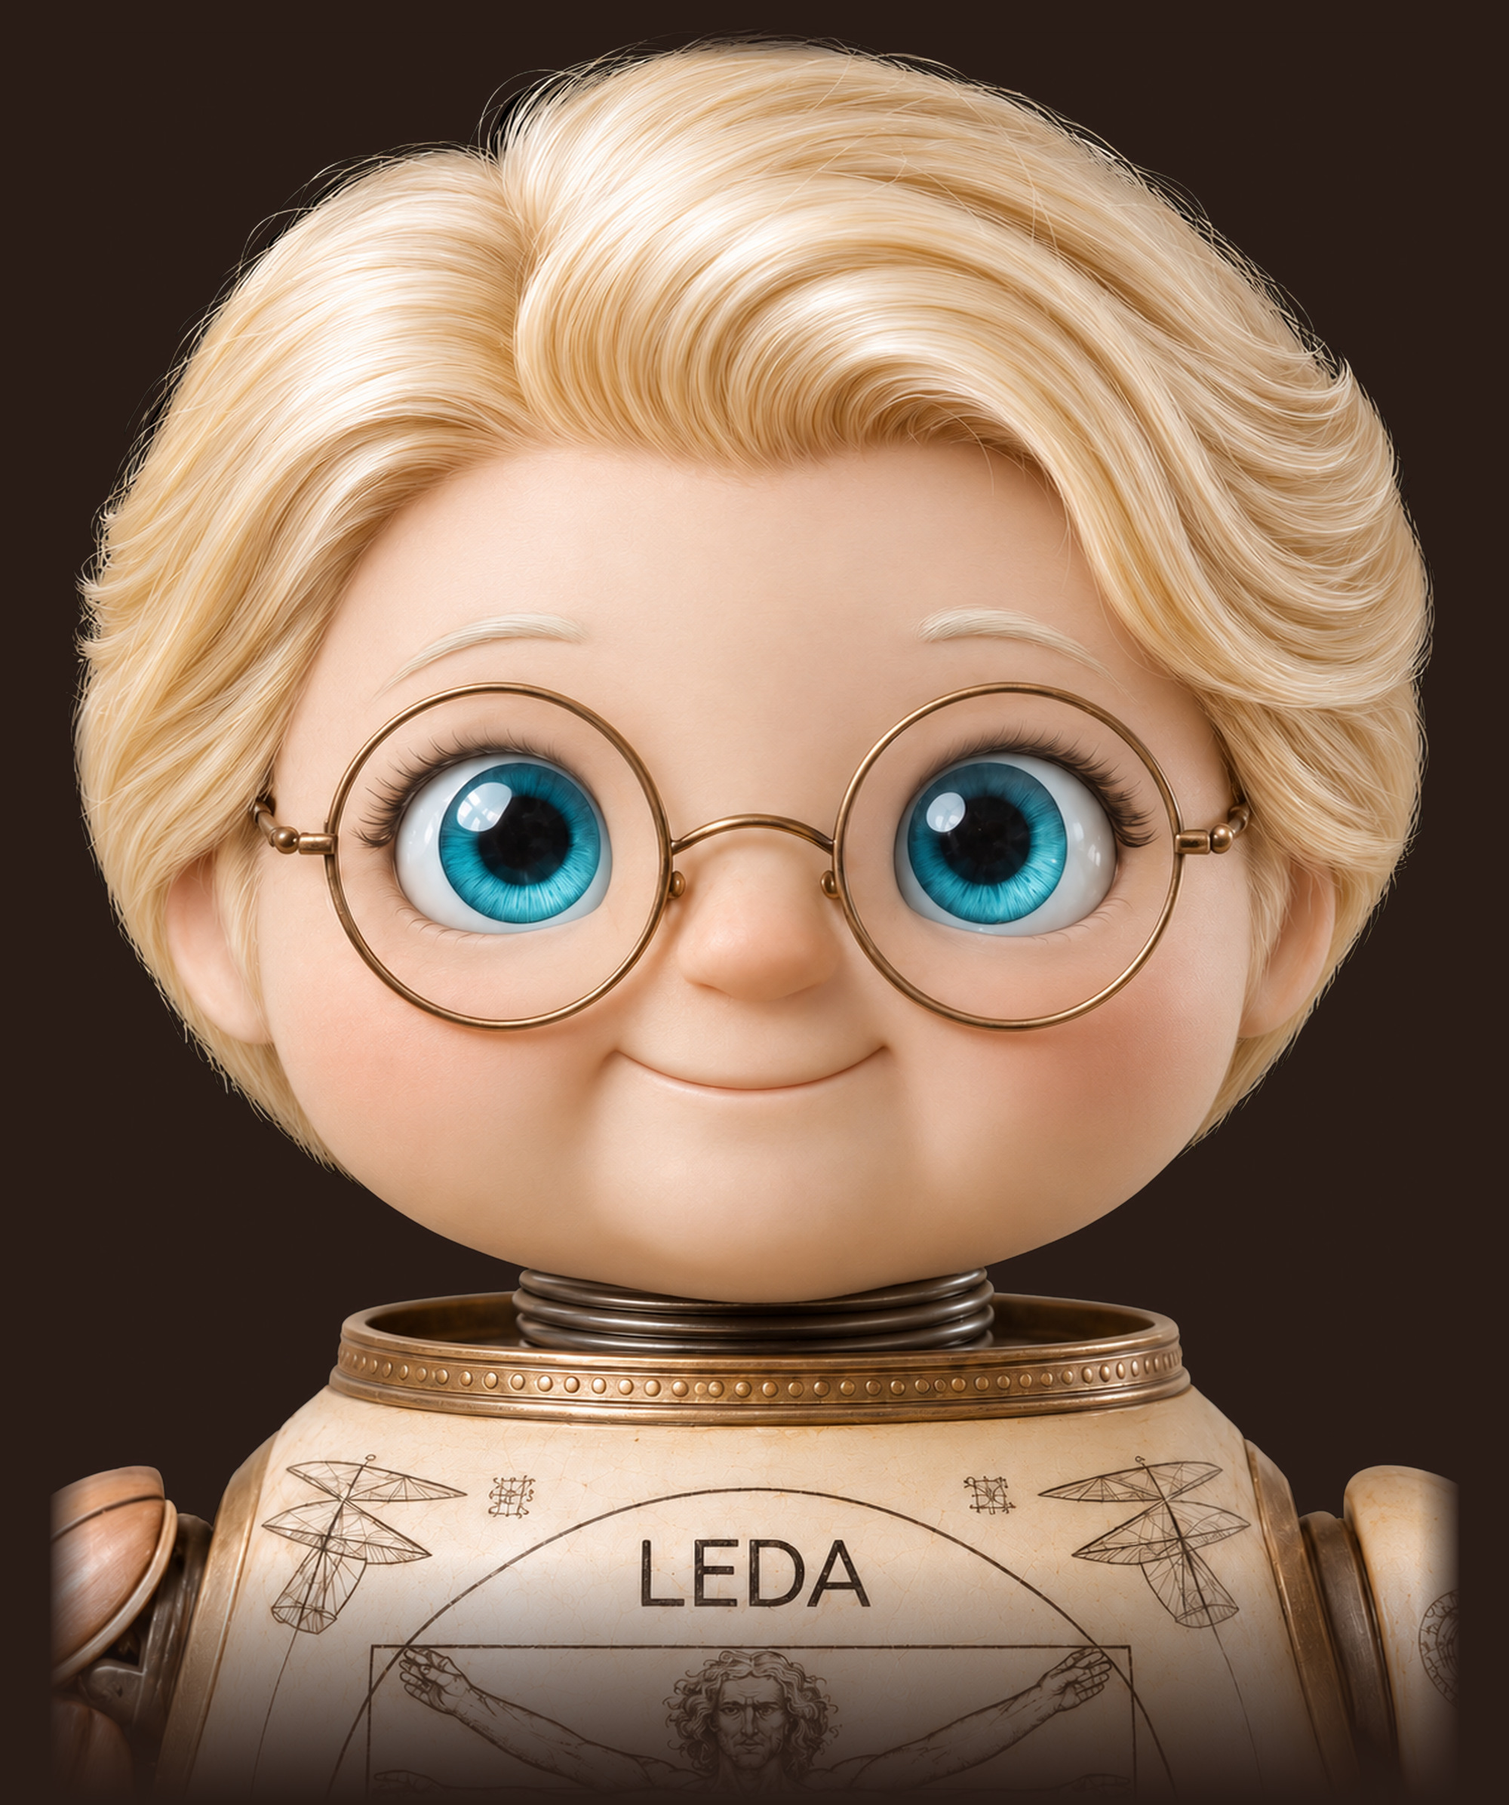
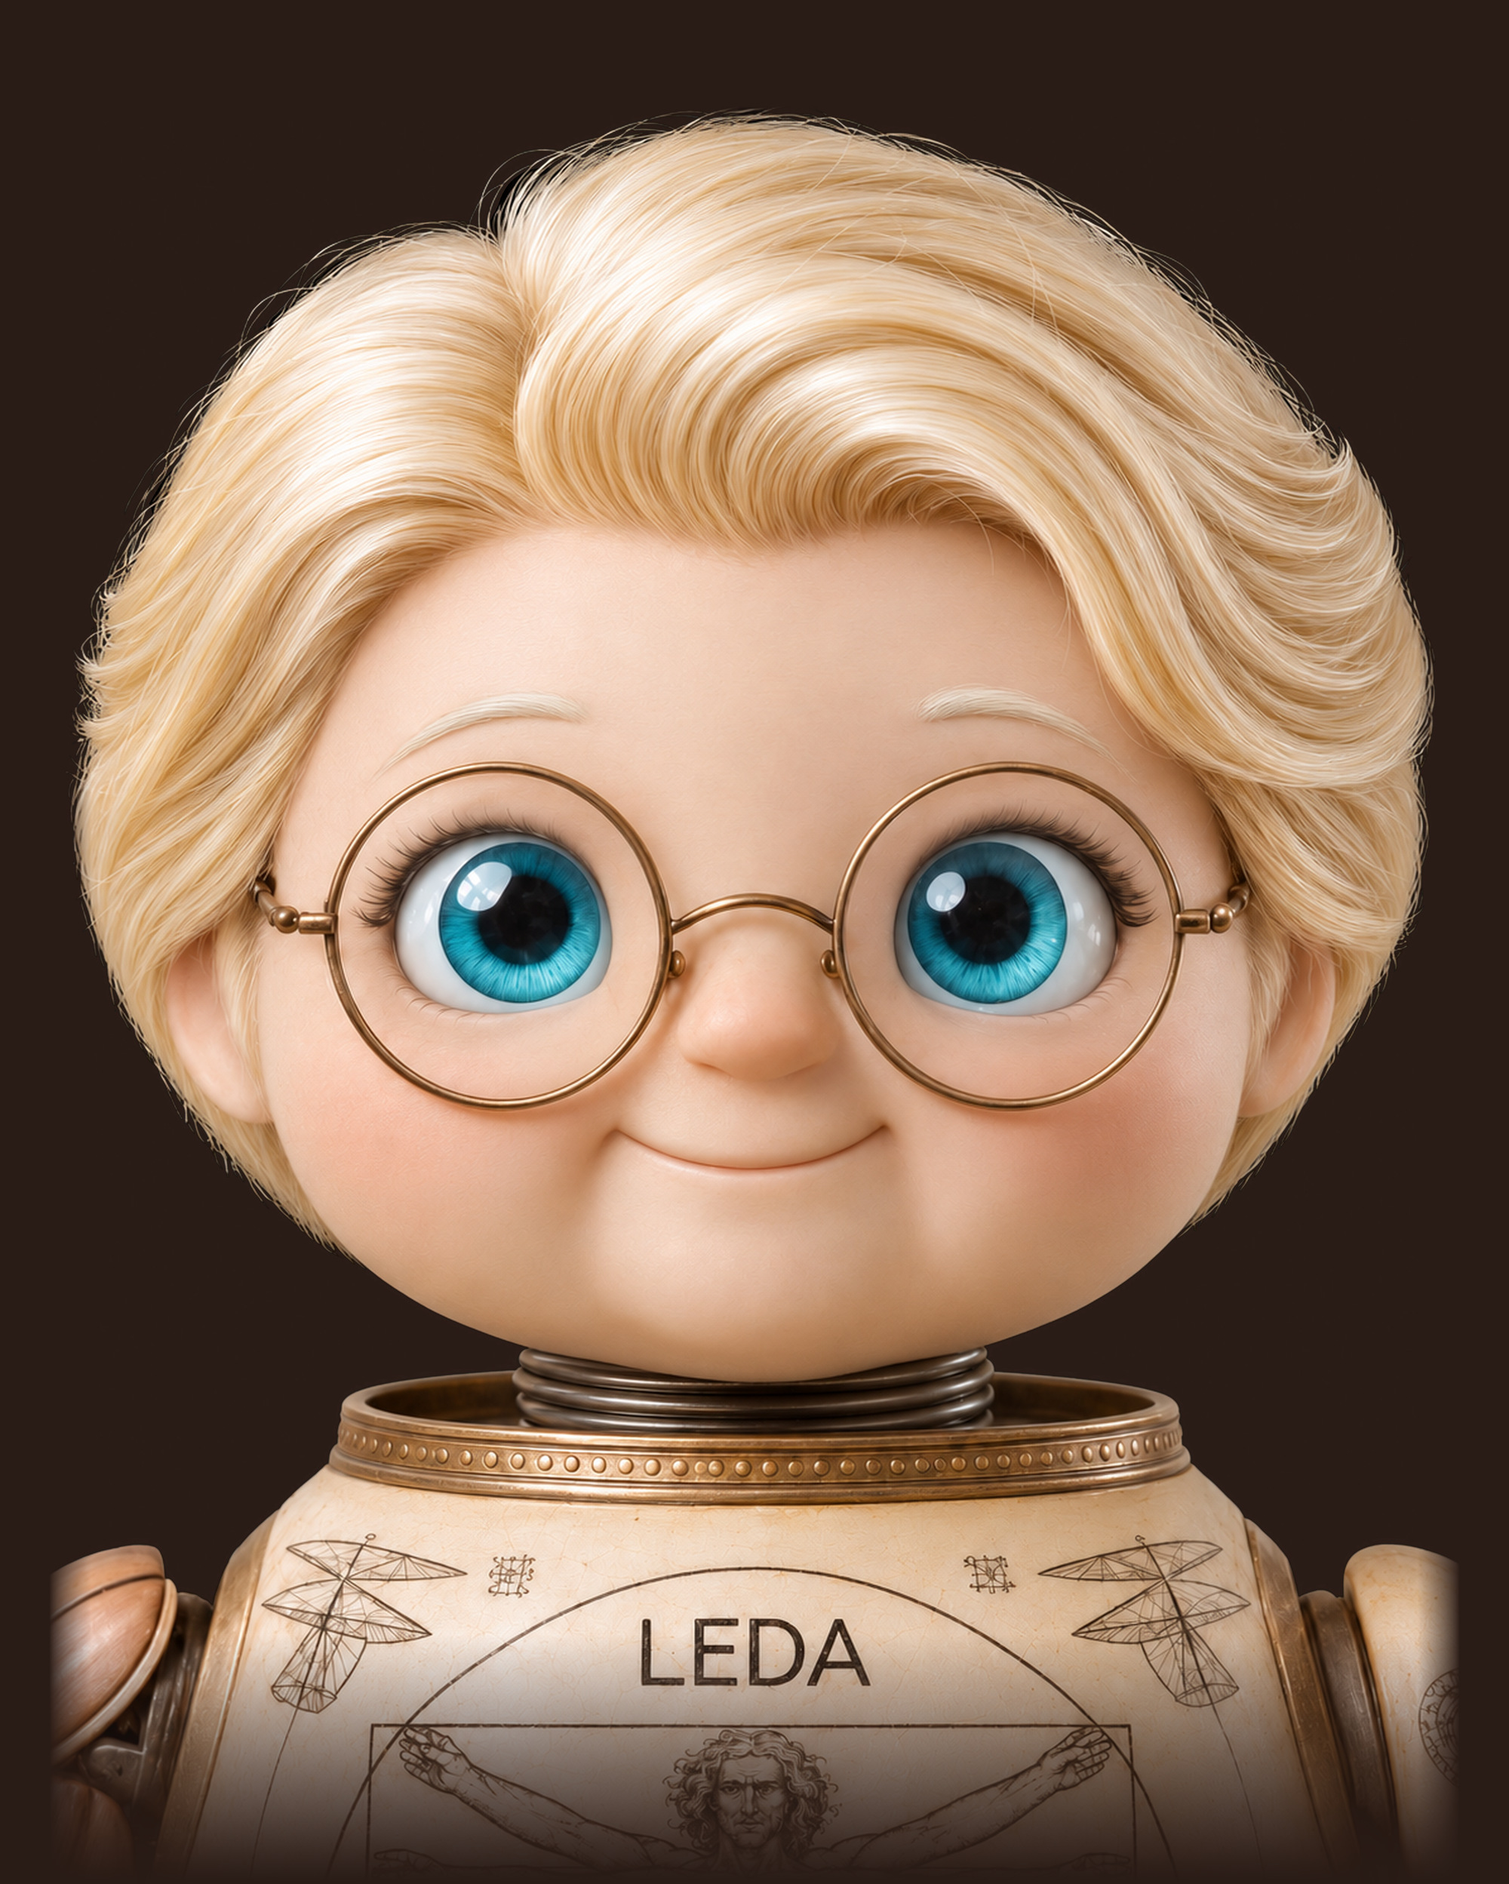
Leda: cabelo inteiro no topo, microfone fixo em todas as abas, Receitas e Salas ajustadas; Felyx: microfone em todas as abas

diff --git a/app-leda/full.html b/app-leda/full.html
@@ -450,7 +450,7 @@ input,select,textarea{font-size:16px!important}
   addEventListener('DOMContentLoaded', folgas); addEventListener('resize', folgas); addEventListener('orientationchange', ()=>setTimeout(folgas, 250));
 })();
 </script>
-<style id="semIris">#unlock{display:none!important}#hud>.mic{overflow:visible}#hud[data-tab="home"]>.mic[data-on="0"]::after{content:attr(data-rotulo);position:absolute;left:50%;top:calc(100% + 8px);transform:translateX(-50%);color:#e1fe06;font:700 1.02rem/1.1 "Barlow Semi Condensed","Barlow",system-ui,sans-serif;letter-spacing:.04em;white-space:nowrap;pointer-events:none;text-shadow:0 0 6px rgba(225,254,6,.75),0 0 18px rgba(225,254,6,.45),0 1px 2px #000}@media (orientation:landscape){#hud[data-tab="home"]>.mic[data-on="0"]::after{left:auto;right:-4px;transform:none;text-align:right}}@media (orientation:portrait){#hud[data-tab="home"]>.mic{bottom:calc(var(--tabsH,64px) + 36px)!important}}</style>
+<style id="semIris">#unlock{display:none!important}#hud>.mic{overflow:visible}#hud[data-tab="home"]>.mic[data-on="0"]::after{content:attr(data-rotulo);position:absolute;left:50%;top:calc(100% + 8px);transform:translateX(-50%);color:#e1fe06;font:700 1.02rem/1.1 "Barlow Semi Condensed","Barlow",system-ui,sans-serif;letter-spacing:.04em;white-space:nowrap;pointer-events:none;text-shadow:0 0 6px rgba(225,254,6,.75),0 0 18px rgba(225,254,6,.45),0 1px 2px #000}@media (orientation:landscape){#hud[data-tab="home"]>.mic[data-on="0"]::after{left:auto;right:-4px;transform:none;text-align:right}}@media (orientation:portrait){html body #hud>.mic{bottom:calc(var(--tabsH,64px) + 36px)!important}}html body #hud[data-tab]>.mic{display:grid!important}</style>
 <style id="ledaVisual">
 /* Leda (12/11/2026, revisão 3): arte oficial em fundo marrom; barra, microfone e frase em cobre metálico (como o anel do pescoço); aba Receitas; sem cotações */
 :root{--leda:#c98a4b;--ledaRGB:201,138,75;--cobre:linear-gradient(135deg,#f6d2a4 0%,#d39a5f 28%,#a8692f 52%,#e2b07a 74%,#8c5527 100%);--fundo:#291b16;--ink950:#291b16;--ink900:#34231c;--ink800:#3d2a22;--ink700:#4a3328;--linha:#563c2f;--mist:#bfa38b;--texto:#f3e8dc;--accent:#c98a4b;--accent-rgb:201,138,75}
@@ -463,7 +463,7 @@ html body #hud[data-tab] .face img.retrato,html body #hud.com-rosto[data-tab] .f
 /* ABA LEDA: busto grande no preto, rosto bem definido */
 html body #hud[data-tab="home"] .face{position:fixed!important;left:0!important;right:0!important;top:0!important;bottom:0!important;width:auto!important;height:auto!important;aspect-ratio:auto!important;border-radius:0!important;box-shadow:none!important;transform:none!important;background:var(--fundo)!important;z-index:0!important}
 /* em pé: a Leda ocupa a largura toda (cabelo inteiro, sem corte), começa logo abaixo da área segura e o corpo desce por trás do microfone e das abas */
-html body #hud[data-tab="home"] .face .ledaBusto{display:block!important;position:absolute!important;left:0!important;right:auto!important;top:max(env(safe-area-inset-top,0px),calc(100dvh - var(--tabsH,64px) - 132px - 100vw * 1.1958))!important;bottom:auto!important;
+html body #hud[data-tab="home"] .face .ledaBusto{display:block!important;position:absolute!important;left:0!important;right:auto!important;top:max(env(safe-area-inset-top,0px),calc(100dvh - var(--tabsH,64px) - 132px - 100vw * 1.2487))!important;bottom:auto!important;
   width:100vw!important;height:auto!important;max-width:none!important;max-height:none!important;transform:none;transform-origin:50% 30%;
   animation:ledaRespira 5.5s ease-in-out infinite}
 html body #hud[data-tab="home"][data-state="speaking"] .face .ledaBusto{animation:ledaFala .9s ease-in-out infinite}
@@ -495,8 +495,8 @@ html body #hud:not([data-tab="home"])[data-state="speaking"] .orbWrap{animation:
 /* ABA RECEITAS */
 #receitas{display:none}
 #hud[data-tab="receitas"]>.top,#hud[data-tab="receitas"]>.stage,#hud[data-tab="receitas"]>.bottom,#hud[data-tab="receitas"]>.moreView{display:none!important}
-#hud[data-tab="receitas"] #receitas{display:block;position:fixed;left:0;right:0;top:0;bottom:calc(var(--tabsH,64px) + var(--micZ,0px));overflow:auto;-webkit-overflow-scrolling:touch;
-  background:var(--ink950);color:var(--texto);padding:calc(max(env(safe-area-inset-top),12px) + 10px) 14px 24px;z-index:3}
+#hud[data-tab="receitas"] #receitas{display:block;position:fixed;left:0;right:0;top:0;bottom:var(--tabsH,64px);overflow:auto;-webkit-overflow-scrolling:touch;
+  background:var(--ink950);color:var(--texto);padding:calc(max(env(safe-area-inset-top),12px) + 10px) 14px calc(var(--micZ,86px) + 64px);z-index:3}
 #receitas .rcTopo{max-width:760px;margin:0 auto 14px}
 #receitas .rcK{font-family:"IBM Plex Mono",var(--mono,monospace);font-size:.66rem;letter-spacing:.2em;color:var(--mist);text-transform:uppercase}
 #receitas .rcK i{display:inline-block;width:6px;height:6px;border-radius:50%;background:var(--leda);margin-right:8px;vertical-align:middle}
@@ -536,6 +536,10 @@ html body #hud:not([data-tab="home"]) .orbWrap{aspect-ratio:1/1!important;height
 html body #hud[data-tab="home"] .appTabs{background:linear-gradient(180deg,rgba(41,27,22,.55),rgba(41,27,22,.92))!important;-webkit-backdrop-filter:blur(6px);backdrop-filter:blur(6px);position:relative;z-index:5}
 html body #hud[data-tab="home"]::before{content:"";position:fixed;left:0;right:0;bottom:0;height:calc(var(--tabsH,64px) + 150px);background:linear-gradient(180deg,rgba(41,27,22,0),rgba(41,27,22,.75) 55%,rgba(41,27,22,.95));z-index:1;pointer-events:none}
 html body #hud[data-tab="home"]>.mic{z-index:6}
+
+/* Salas: espaço para o microfone (que agora aparece em todas as abas) */
+html body #hud[data-tab="rooms"]{padding-bottom:calc(var(--tabsH,64px) + 120px)!important}
+html body #hud[data-tab="rooms"] .stage{padding-bottom:110px}
 
 </style>
 <script>
@@ -771,7 +775,7 @@ document.addEventListener('DOMContentLoaded', ()=>{
     <section class="center">
       <section class="orbWrap" aria-label="Leda">
         <canvas id="rings" aria-hidden="true"></canvas>
-        <div class="face"><img class="ledaBusto" src="leda-busto.jpg?v=20261112f" decoding="sync" alt="Leda" draggable="false"><img class="ledaRosto" src="leda-rosto.jpg?v=20261112f" alt="" draggable="false">
+        <div class="face"><img class="ledaBusto" src="leda-busto.jpg?v=20261112g" decoding="sync" alt="Leda" draggable="false"><img class="ledaRosto" src="leda-rosto.jpg?v=20261112g" alt="" draggable="false">
           <img class="retrato" src="leda-rosto.jpg" alt="" aria-hidden="true"><canvas id="cv" width="1000" height="1000" aria-hidden="true"></canvas>
           <video id="avatarVideo" autoplay playsinline muted aria-hidden="true"></video>
           <audio id="avatarAudio" autoplay></audio>

diff --git a/app-leda/gem.html b/app-leda/gem.html
@@ -347,7 +347,7 @@ body::after{content:"";position:fixed;inset:0;pointer-events:none;background:rad
   .hud[data-tab="dashboard"] .news{min-height:200px}
 }
 </style>
-<style id="semIris">#unlock{display:none!important}#hud>.mic{overflow:visible}#hud[data-tab="home"]>.mic[data-on="0"]::after{content:attr(data-rotulo);position:absolute;left:50%;top:calc(100% + 8px);transform:translateX(-50%);color:#e1fe06;font:700 1.02rem/1.1 "Barlow Semi Condensed","Barlow",system-ui,sans-serif;letter-spacing:.04em;white-space:nowrap;pointer-events:none;text-shadow:0 0 6px rgba(225,254,6,.75),0 0 18px rgba(225,254,6,.45),0 1px 2px #000}@media (orientation:landscape){#hud[data-tab="home"]>.mic[data-on="0"]::after{left:auto;right:-4px;transform:none;text-align:right}}@media (orientation:portrait){#hud[data-tab="home"]>.mic{bottom:calc(var(--tabsH,64px) + 36px)!important}}</style>
+<style id="semIris">#unlock{display:none!important}#hud>.mic{overflow:visible}#hud[data-tab="home"]>.mic[data-on="0"]::after{content:attr(data-rotulo);position:absolute;left:50%;top:calc(100% + 8px);transform:translateX(-50%);color:#e1fe06;font:700 1.02rem/1.1 "Barlow Semi Condensed","Barlow",system-ui,sans-serif;letter-spacing:.04em;white-space:nowrap;pointer-events:none;text-shadow:0 0 6px rgba(225,254,6,.75),0 0 18px rgba(225,254,6,.45),0 1px 2px #000}@media (orientation:landscape){#hud[data-tab="home"]>.mic[data-on="0"]::after{left:auto;right:-4px;transform:none;text-align:right}}@media (orientation:portrait){html body #hud>.mic{bottom:calc(var(--tabsH,64px) + 36px)!important}}html body #hud[data-tab]>.mic{display:grid!important}</style>
 <style id="ledaVisual">
 /* Leda (12/11/2026, revisão 3): arte oficial em fundo marrom; barra, microfone e frase em cobre metálico (como o anel do pescoço); aba Receitas; sem cotações */
 :root{--leda:#c98a4b;--ledaRGB:201,138,75;--cobre:linear-gradient(135deg,#f6d2a4 0%,#d39a5f 28%,#a8692f 52%,#e2b07a 74%,#8c5527 100%);--fundo:#291b16;--ink950:#291b16;--ink900:#34231c;--ink800:#3d2a22;--ink700:#4a3328;--linha:#563c2f;--mist:#bfa38b;--texto:#f3e8dc;--accent:#c98a4b;--accent-rgb:201,138,75}
@@ -360,7 +360,7 @@ html body #hud[data-tab] .face img.retrato,html body #hud.com-rosto[data-tab] .f
 /* ABA LEDA: busto grande no preto, rosto bem definido */
 html body #hud[data-tab="home"] .face{position:fixed!important;left:0!important;right:0!important;top:0!important;bottom:0!important;width:auto!important;height:auto!important;aspect-ratio:auto!important;border-radius:0!important;box-shadow:none!important;transform:none!important;background:var(--fundo)!important;z-index:0!important}
 /* em pé: a Leda ocupa a largura toda (cabelo inteiro, sem corte), começa logo abaixo da área segura e o corpo desce por trás do microfone e das abas */
-html body #hud[data-tab="home"] .face .ledaBusto{display:block!important;position:absolute!important;left:0!important;right:auto!important;top:max(env(safe-area-inset-top,0px),calc(100dvh - var(--tabsH,64px) - 132px - 100vw * 1.1958))!important;bottom:auto!important;
+html body #hud[data-tab="home"] .face .ledaBusto{display:block!important;position:absolute!important;left:0!important;right:auto!important;top:max(env(safe-area-inset-top,0px),calc(100dvh - var(--tabsH,64px) - 132px - 100vw * 1.2487))!important;bottom:auto!important;
   width:100vw!important;height:auto!important;max-width:none!important;max-height:none!important;transform:none;transform-origin:50% 30%;
   animation:ledaRespira 5.5s ease-in-out infinite}
 html body #hud[data-tab="home"][data-state="speaking"] .face .ledaBusto{animation:ledaFala .9s ease-in-out infinite}
@@ -392,8 +392,8 @@ html body #hud:not([data-tab="home"])[data-state="speaking"] .orbWrap{animation:
 /* ABA RECEITAS */
 #receitas{display:none}
 #hud[data-tab="receitas"]>.top,#hud[data-tab="receitas"]>.stage,#hud[data-tab="receitas"]>.bottom,#hud[data-tab="receitas"]>.moreView{display:none!important}
-#hud[data-tab="receitas"] #receitas{display:block;position:fixed;left:0;right:0;top:0;bottom:calc(var(--tabsH,64px) + var(--micZ,0px));overflow:auto;-webkit-overflow-scrolling:touch;
-  background:var(--ink950);color:var(--texto);padding:calc(max(env(safe-area-inset-top),12px) + 10px) 14px 24px;z-index:3}
+#hud[data-tab="receitas"] #receitas{display:block;position:fixed;left:0;right:0;top:0;bottom:var(--tabsH,64px);overflow:auto;-webkit-overflow-scrolling:touch;
+  background:var(--ink950);color:var(--texto);padding:calc(max(env(safe-area-inset-top),12px) + 10px) 14px calc(var(--micZ,86px) + 64px);z-index:3}
 #receitas .rcTopo{max-width:760px;margin:0 auto 14px}
 #receitas .rcK{font-family:"IBM Plex Mono",var(--mono,monospace);font-size:.66rem;letter-spacing:.2em;color:var(--mist);text-transform:uppercase}
 #receitas .rcK i{display:inline-block;width:6px;height:6px;border-radius:50%;background:var(--leda);margin-right:8px;vertical-align:middle}
@@ -433,6 +433,10 @@ html body #hud:not([data-tab="home"]) .orbWrap{aspect-ratio:1/1!important;height
 html body #hud[data-tab="home"] .appTabs{background:linear-gradient(180deg,rgba(41,27,22,.55),rgba(41,27,22,.92))!important;-webkit-backdrop-filter:blur(6px);backdrop-filter:blur(6px);position:relative;z-index:5}
 html body #hud[data-tab="home"]::before{content:"";position:fixed;left:0;right:0;bottom:0;height:calc(var(--tabsH,64px) + 150px);background:linear-gradient(180deg,rgba(41,27,22,0),rgba(41,27,22,.75) 55%,rgba(41,27,22,.95));z-index:1;pointer-events:none}
 html body #hud[data-tab="home"]>.mic{z-index:6}
+
+/* Salas: espaço para o microfone (que agora aparece em todas as abas) */
+html body #hud[data-tab="rooms"]{padding-bottom:calc(var(--tabsH,64px) + 120px)!important}
+html body #hud[data-tab="rooms"] .stage{padding-bottom:110px}
 
 </style>
 <script>
@@ -657,7 +661,7 @@ document.addEventListener('DOMContentLoaded', ()=>{
     <section class="center">
       <section class="orbWrap" aria-label="Leda">
         <canvas id="rings" aria-hidden="true"></canvas>
-        <div class="face"><img class="ledaBusto" src="leda-busto.jpg?v=20261112f" decoding="sync" alt="Leda" draggable="false"><img class="ledaRosto" src="leda-rosto.jpg?v=20261112f" alt="" draggable="false">
+        <div class="face"><img class="ledaBusto" src="leda-busto.jpg?v=20261112g" decoding="sync" alt="Leda" draggable="false"><img class="ledaRosto" src="leda-rosto.jpg?v=20261112g" alt="" draggable="false">
           <canvas id="cv" width="1000" height="1000" aria-hidden="true"></canvas>
           <video id="avatarVideo" autoplay playsinline muted aria-hidden="true"></video>
           <audio id="avatarAudio" autoplay></audio>

diff --git a/app/full.html b/app/full.html
@@ -450,7 +450,7 @@ input,select,textarea{font-size:16px!important}
   addEventListener('DOMContentLoaded', folgas); addEventListener('resize', folgas); addEventListener('orientationchange', ()=>setTimeout(folgas, 250));
 })();
 </script>
-<style id="semIris">#unlock{display:none!important}#hud>.mic{overflow:visible}#hud[data-tab="home"]>.mic[data-on="0"]::after{content:attr(data-rotulo);position:absolute;left:50%;top:calc(100% + 8px);transform:translateX(-50%);color:#e1fe06;font:700 1.02rem/1.1 "Barlow Semi Condensed","Barlow",system-ui,sans-serif;letter-spacing:.04em;white-space:nowrap;pointer-events:none;text-shadow:0 0 6px rgba(225,254,6,.75),0 0 18px rgba(225,254,6,.45),0 1px 2px #000}@media (orientation:landscape){#hud[data-tab="home"]>.mic[data-on="0"]::after{left:auto;right:-4px;transform:none;text-align:right}}@media (orientation:portrait){#hud[data-tab="home"]>.mic{bottom:calc(var(--tabsH,64px) + 36px)!important}}</style>
+<style id="semIris">#unlock{display:none!important}#hud>.mic{overflow:visible}#hud[data-tab="home"]>.mic[data-on="0"]::after{content:attr(data-rotulo);position:absolute;left:50%;top:calc(100% + 8px);transform:translateX(-50%);color:#e1fe06;font:700 1.02rem/1.1 "Barlow Semi Condensed","Barlow",system-ui,sans-serif;letter-spacing:.04em;white-space:nowrap;pointer-events:none;text-shadow:0 0 6px rgba(225,254,6,.75),0 0 18px rgba(225,254,6,.45),0 1px 2px #000}@media (orientation:landscape){#hud[data-tab="home"]>.mic[data-on="0"]::after{left:auto;right:-4px;transform:none;text-align:right}}@media (orientation:portrait){html body #hud>.mic{bottom:calc(var(--tabsH,64px) + 36px)!important}}html body #hud[data-tab]>.mic{display:grid!important}</style>
 </head>
 <body>
 <div class="unlock" id="unlock" hidden role="button" tabindex="0" aria-label="Toque para ler a sua íris">

diff --git a/app-leda/index.html b/app-leda/index.html
@@ -1,3 +1,3 @@
 <!doctype html><html lang="pt-BR"><head><meta charset="utf-8"><meta name="viewport" content="width=device-width,initial-scale=1,viewport-fit=cover"><title>Leda AI Vinci</title><link rel="manifest" href="manifest.json"><meta name="apple-mobile-web-app-capable" content="yes"><meta name="mobile-web-app-capable" content="yes"><meta name="apple-mobile-web-app-status-bar-style" content="black-translucent"><meta name="apple-mobile-web-app-title" content="Leda"><meta name="theme-color" content="#291b16"><link rel="apple-touch-icon" href="icone-180.png"><style>html,body{margin:0;height:100%;background:#291b16}</style>
-<script>location.replace('full.html?v=20261112f' + (location.search ? '&' + location.search.slice(1) : '') + location.hash);</script>
-<meta http-equiv="refresh" content="0;url=full.html?v=20261112f"></head><body><!-- Leda: o app abre a Leda Full em full.html; o login fica dentro dela --></body></html>
+<script>location.replace('full.html?v=20261112g' + (location.search ? '&' + location.search.slice(1) : '') + location.hash);</script>
+<meta http-equiv="refresh" content="0;url=full.html?v=20261112g"></head><body><!-- Leda: o app abre a Leda Full em full.html; o login fica dentro dela --></body></html>

diff --git a/app/index.html b/app/index.html
@@ -976,7 +976,7 @@ function gravarIA(v){ store.set(chaveIA(), v); $('#ajIA').checked = v === true; 
 function irParaGen(){
   if (!sessao || !sessao.token || sessao.demo || !iaAceita() || params.get('cerebro') === 'claude') return false;
   try{ localStorage.setItem('felyx_sessao', sessao.token); }catch(e){}
-  const q = new URLSearchParams(location.search); q.set('v', '20261112d'); location.replace('full.html?' + q.toString()); return true;   // v novo a cada publicação: o app nunca abre a tela antiga do cache
+  const q = new URLSearchParams(location.search); q.set('v', '20261112g'); location.replace('full.html?' + q.toString()); return true;   // v novo a cada publicação: o app nunca abre a tela antiga do cache
 }
 let iaPedido = null;
 function permissaoIA(){
